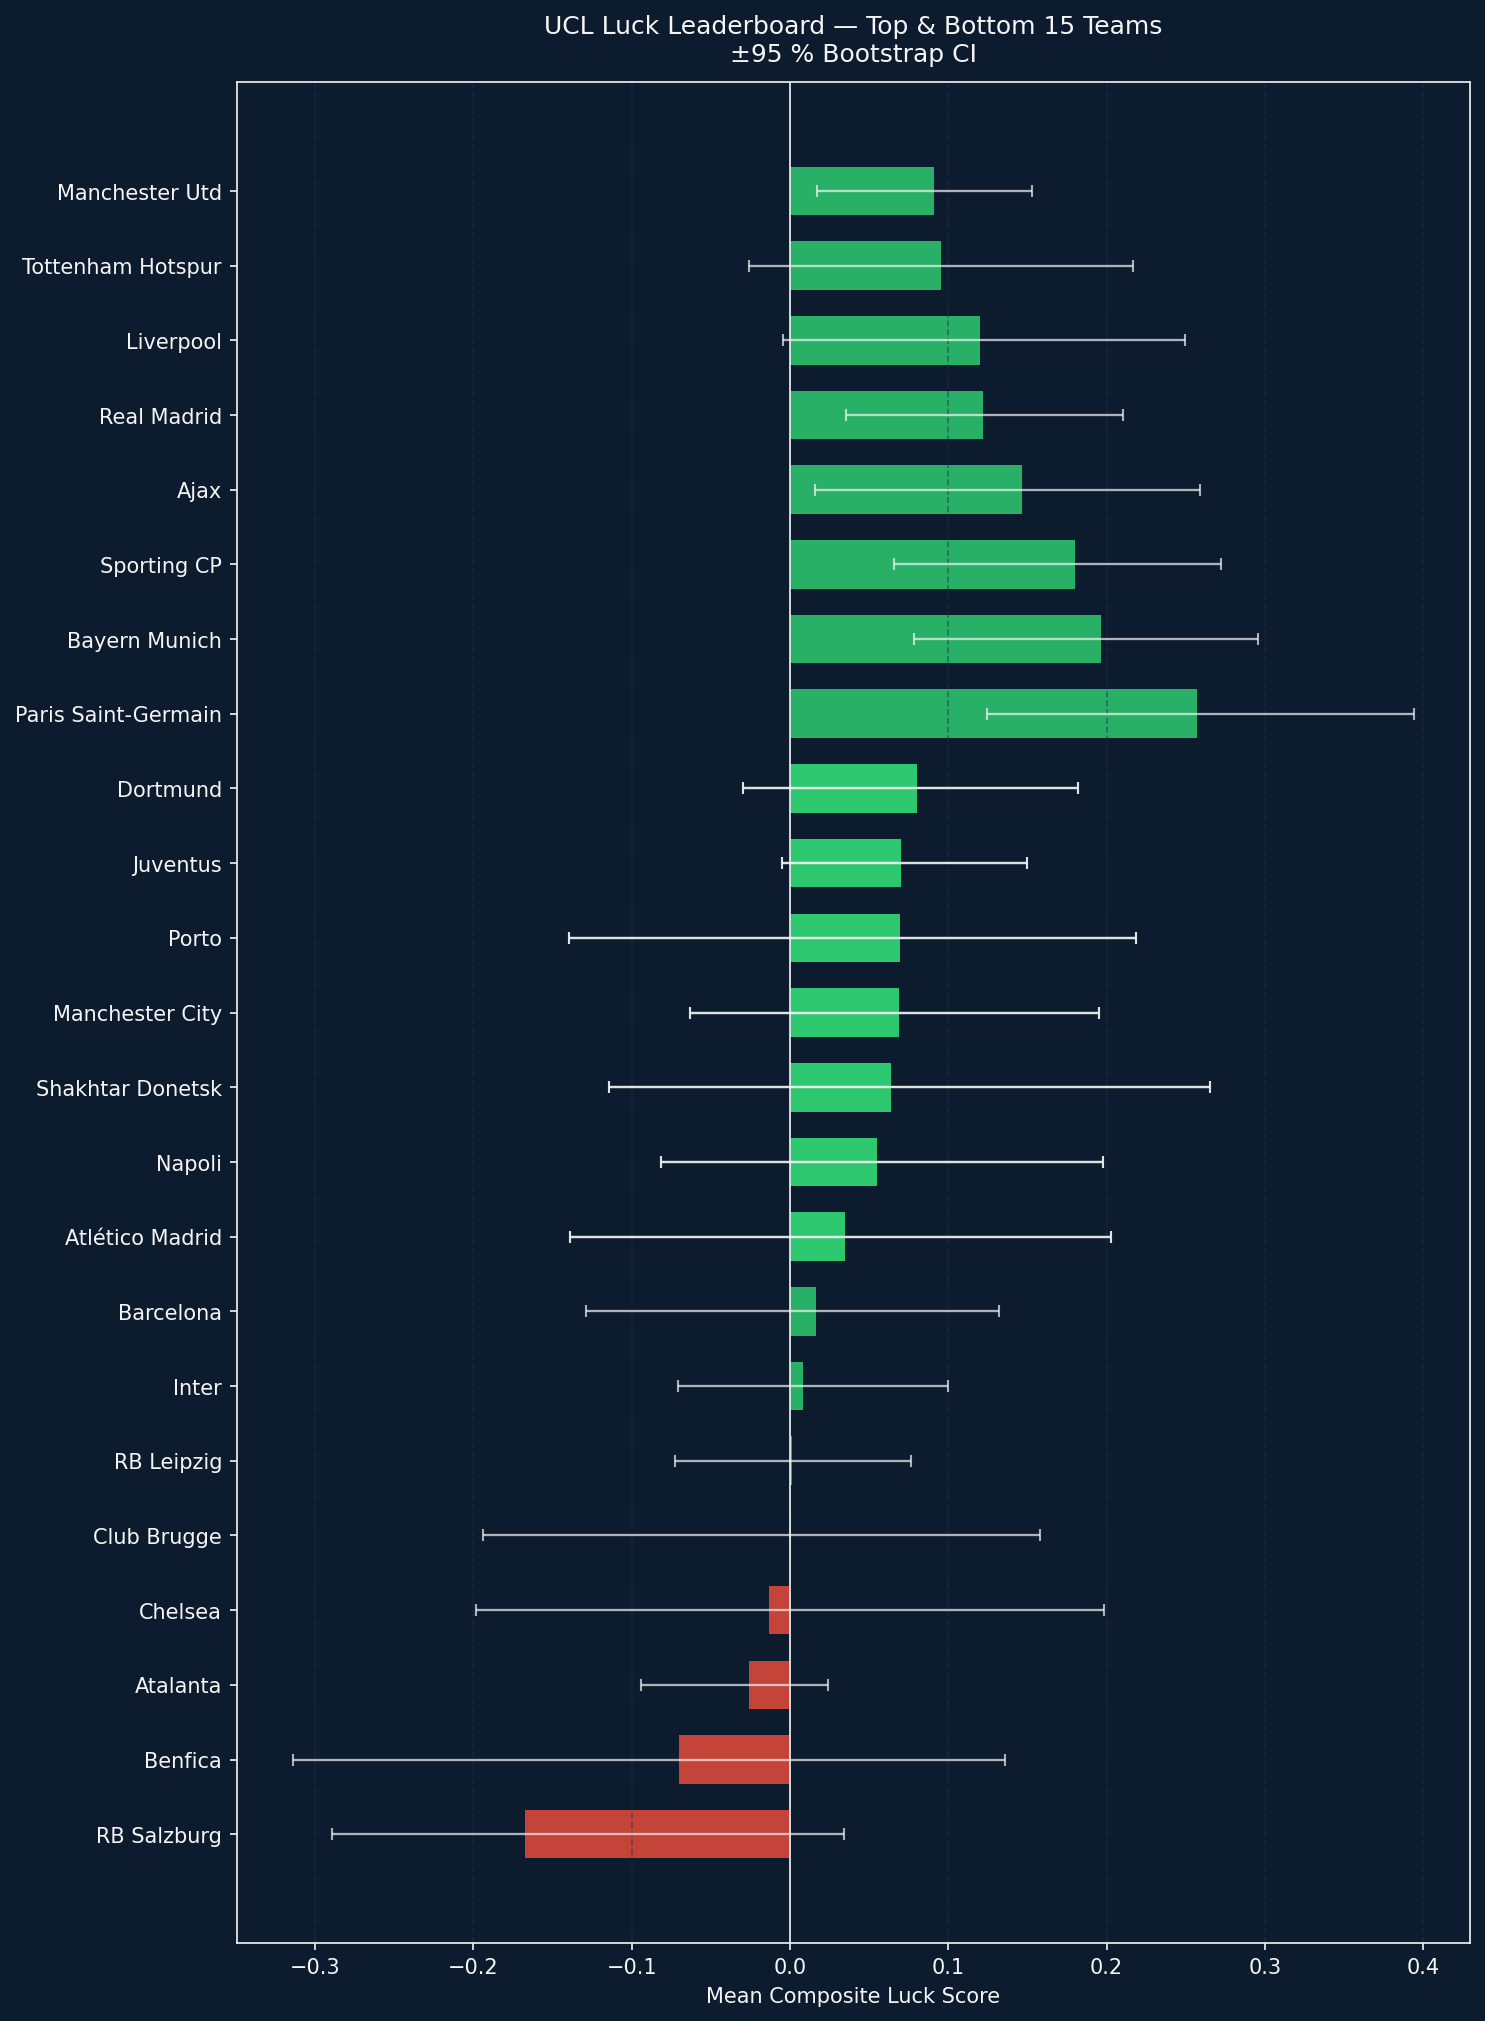
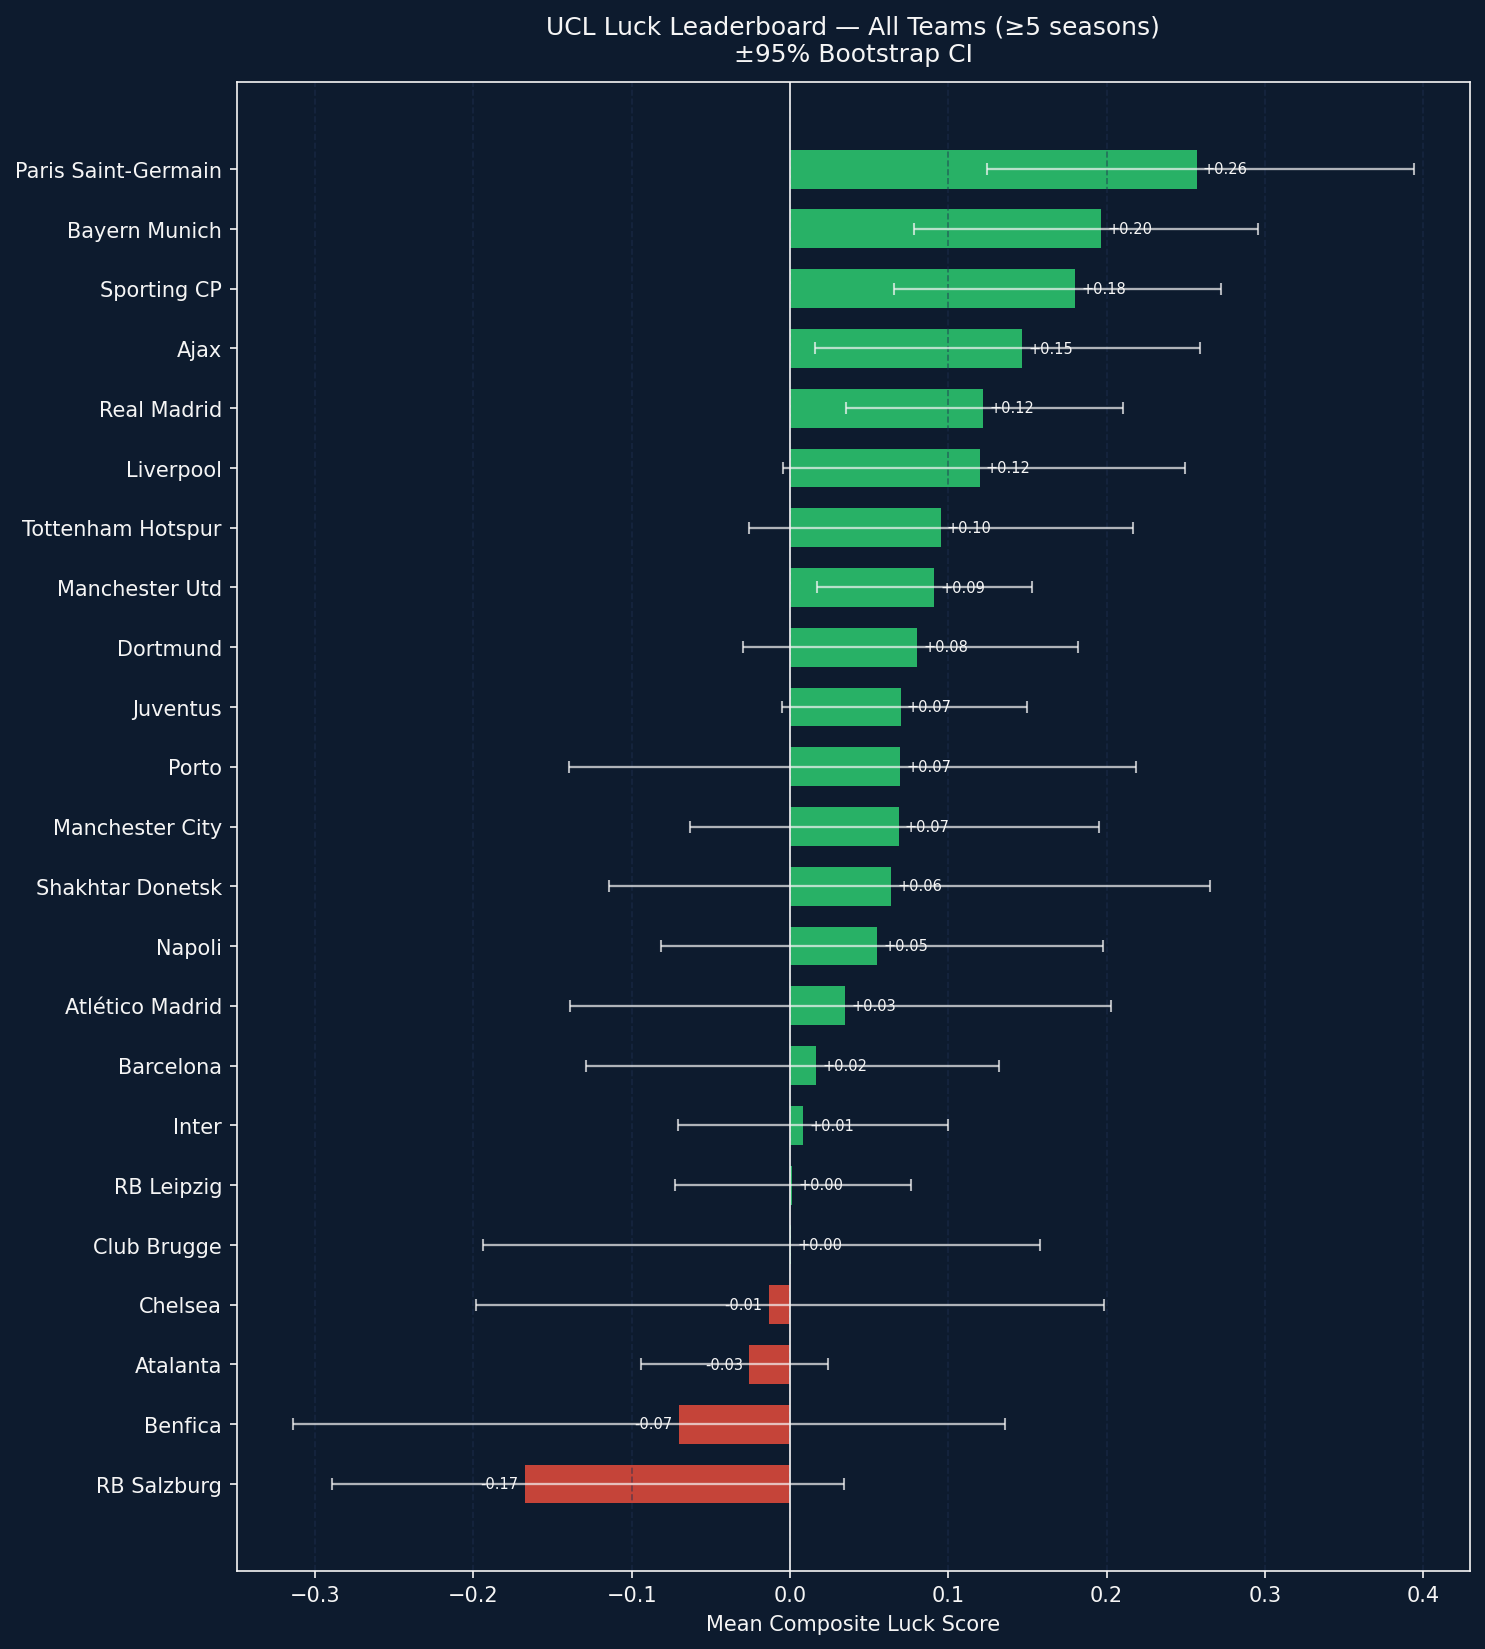
show all ≥5 season teams in leaderboard sorted by luck score with value labels

diff --git a/src/luck_plots.py b/src/luck_plots.py
@@ -52,23 +52,27 @@ def _save(fig, name):
 # ---------------------------------------------------------------------------
 # Fig 1: Luck leaderboard — top 15 luckiest + unluckiest (± CI)
 # ---------------------------------------------------------------------------
-def plot_leaderboard(summary: pd.DataFrame, n: int = 15):
-    top = summary.nlargest(n, "mean_luck")
-    bot = summary.nsmallest(n, "mean_luck").sort_values("mean_luck")
-    df = pd.concat([bot, top]).reset_index(drop=True)
+def plot_leaderboard(summary: pd.DataFrame):
+    df = summary.sort_values("mean_luck", ascending=True).reset_index(drop=True)
 
     colors = [GREEN if v >= 0 else RED for v in df["mean_luck"]]
     xerr_lo = (df["mean_luck"] - df["ci_lower"]).clip(lower=0)
     xerr_hi = (df["ci_upper"] - df["mean_luck"]).clip(lower=0)
 
-    fig, ax = plt.subplots(figsize=(10, len(df) * 0.42 + 1))
+    fig, ax = plt.subplots(figsize=(10, len(df) * 0.44 + 1))
     ax.barh(df["team"], df["mean_luck"], color=colors, alpha=0.85, height=0.65)
     ax.errorbar(df["mean_luck"], df["team"],
                 xerr=[xerr_lo, xerr_hi],
                 fmt="none", color=WHITE, linewidth=1.1, capsize=3, alpha=0.7)
+    for _, row in df.iterrows():
+        offset = 0.004 if row["mean_luck"] >= 0 else -0.004
+        ha = "left" if row["mean_luck"] >= 0 else "right"
+        ax.text(row["mean_luck"] + offset, row["team"],
+                f'{row["mean_luck"]:+.2f}', va="center", ha=ha,
+                fontsize=7, color=WHITE)
     ax.axvline(0, color=WHITE, linewidth=0.8)
     ax.set_xlabel("Mean Composite Luck Score")
-    ax.set_title(f"UCL Luck Leaderboard — Top & Bottom {n} Teams\n±95 % Bootstrap CI", pad=10)
+    ax.set_title(f"UCL Luck Leaderboard — All Teams (≥5 seasons)\n±95% Bootstrap CI", pad=10)
     ax.grid(axis="x")
     fig.tight_layout()
     _save(fig, "fig1_leaderboard")
@@ -274,13 +278,13 @@ def plot_top10_luck_over_time(master: pd.DataFrame):
         "Atlético Madrid",
     ]
     TEAM_COLORS = {
-        "Paris Saint-Germain": "#003f7f",   # deep blue
-        "Bayern Munich":       "#dc052d",   # Bayern red
+        "Paris Saint-Germain": "#1a6fc4",   # strong blue
+        "Bayern Munich":       "#e8000d",   # red
         "Real Madrid":         "#f5d200",   # gold
-        "Barcelona":           "#a50044",   # Barça crimson
-        "Manchester City":     "#6cabdd",   # sky blue
-        "Liverpool":           "#c8102e",   # Liverpool red
-        "Atlético Madrid":     "#e8321a",   # Atleti orange-red
+        "Barcelona":           "#a855f7",   # purple
+        "Manchester City":     "#7ec8e3",   # sky blue
+        "Liverpool":           "#f97316",   # orange
+        "Atlético Madrid":     "#ec4899",   # pink/magenta
     }
 
     all_seasons = sorted(master["season"].unique())
@@ -319,6 +323,7 @@ if __name__ == "__main__":
     summary = pd.read_csv("data/combined/luck_summary.csv")
 
     plot_leaderboard(summary)
+
     plot_component_breakdown(summary)
     plot_season_heatmap(master)
     plot_luck_over_time(master, summary)
